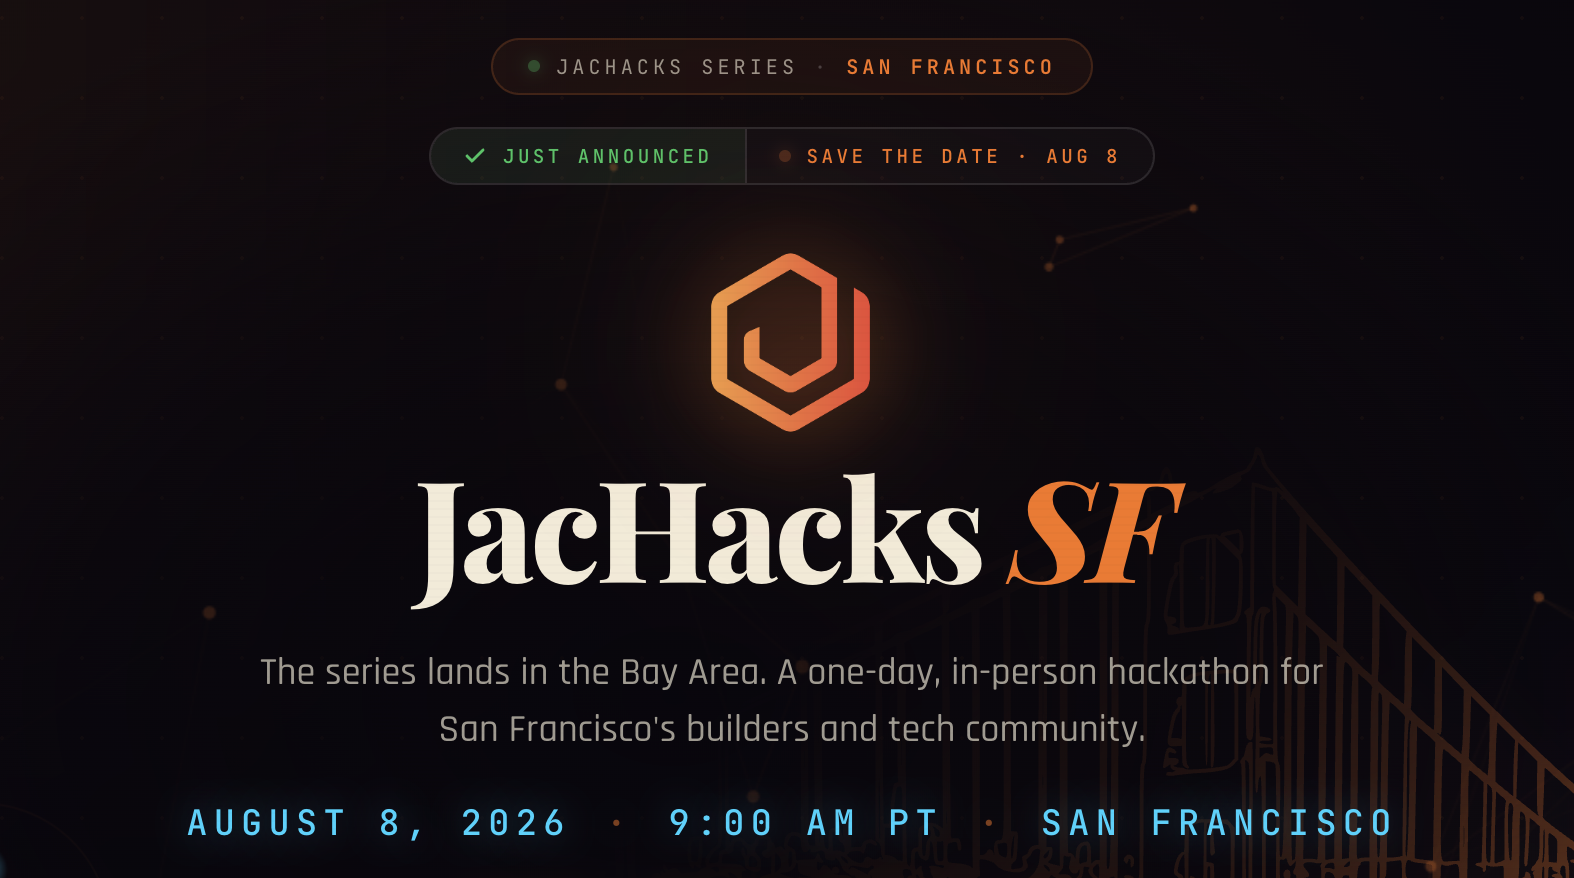
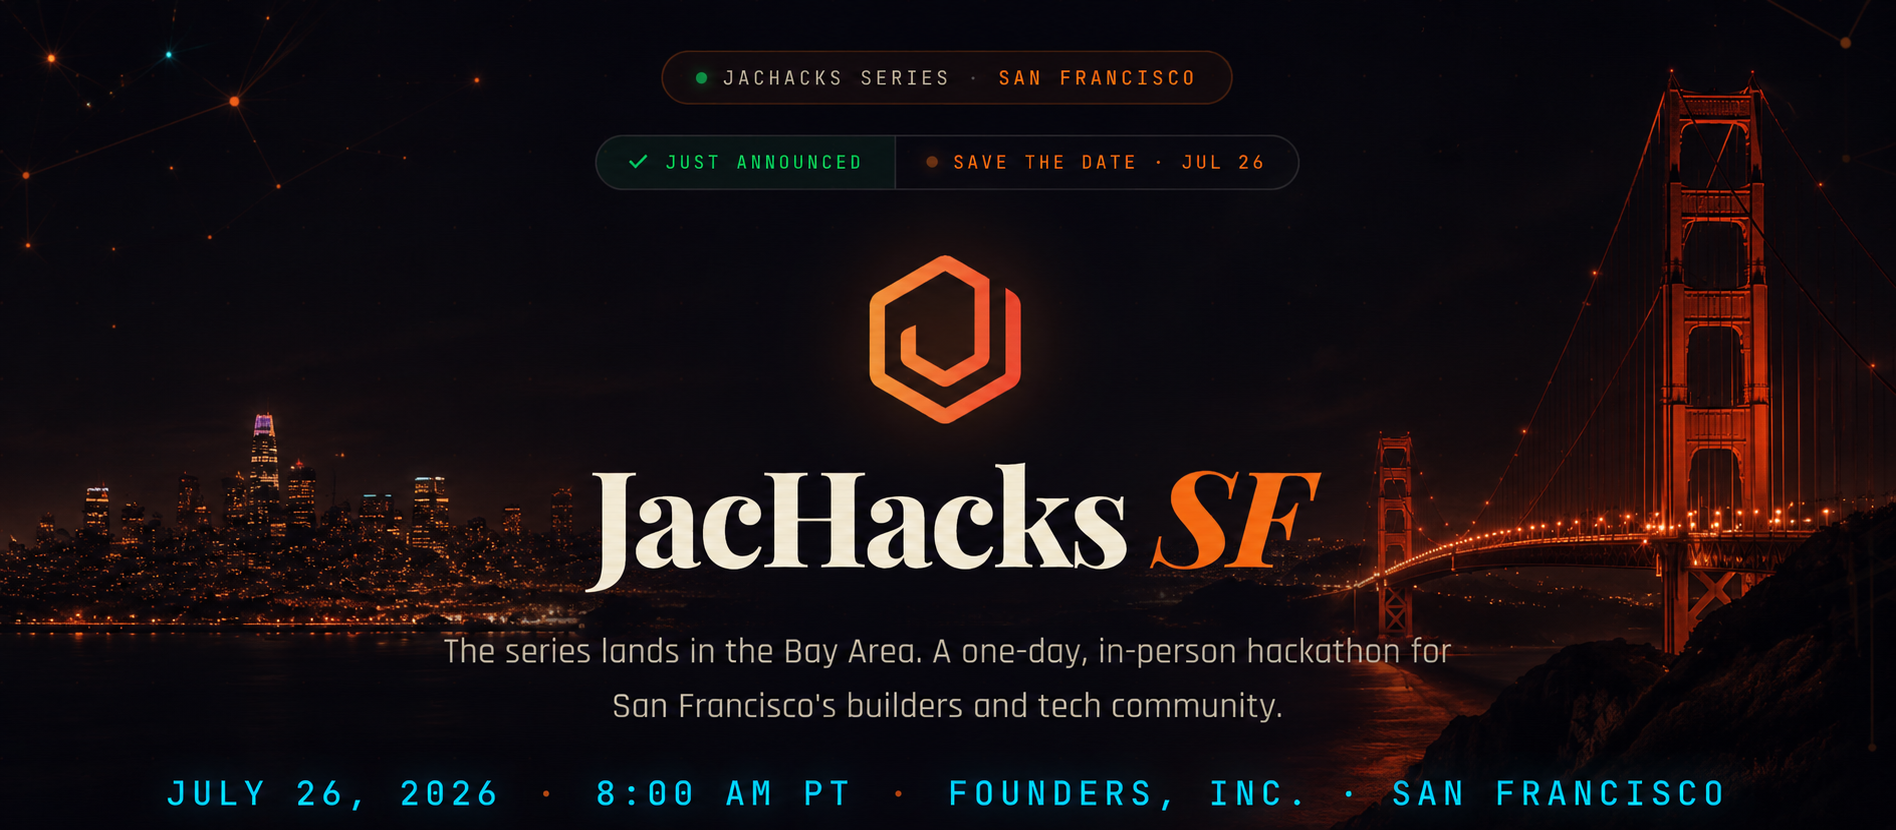
imahe change

diff --git a/src/content/issues/003-agentic-ai-with-jac.md b/src/content/issues/003-agentic-ai-with-jac.md
@@ -121,7 +121,7 @@ The Jaseci team just kicked off a video series that teaches Jac from the ground 
 ### [JacHacks SF is coming](https://jachacks.org/)
 
 <a href="https://jachacks.org/" target="_blank" rel="noopener" class="news-img">
-  <img src="/issues/003/jachacks.png" alt="JacHacks SF. July 26, 2026, 8:00 AM PT, Founders, Inc., San Francisco." />
+  <img src="/issues/003/jachacks.png?v=2" alt="JacHacks SF. July 26, 2026, 8:00 AM PT, Founders, Inc., San Francisco." />
 </a>
 
 JacHacks heads to San Francisco for a one-day, in-person hackathon built around the future of AI programming, landing **July 26 at 8 AM PT** at **Founders, Inc.** It follows a strong run for the series, with JacHacks Spring drawing **300+ builders** and **81 projects** online this May.